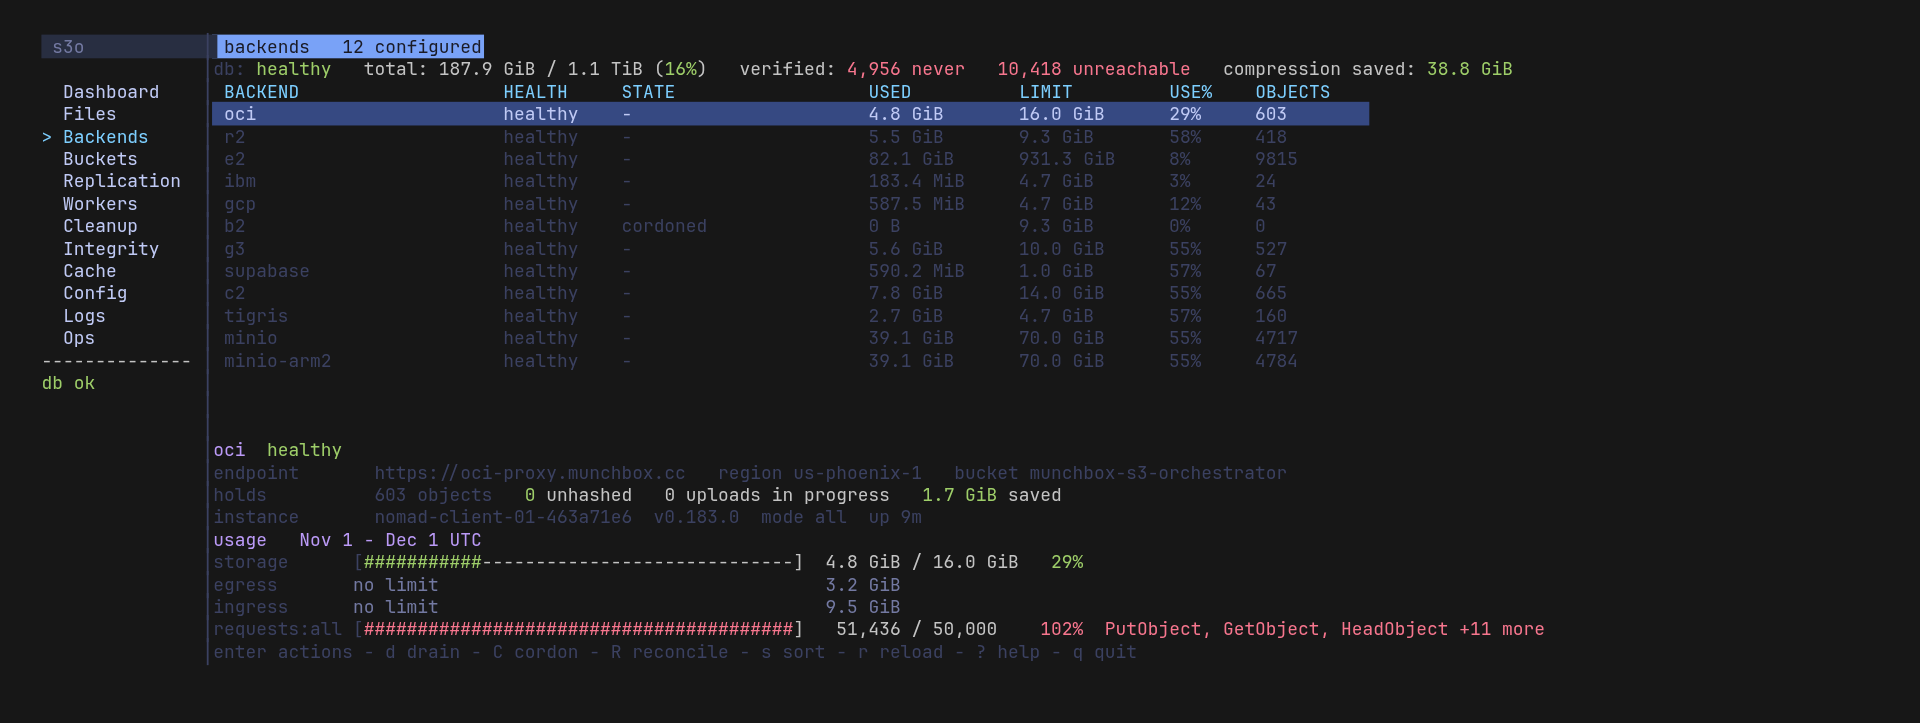
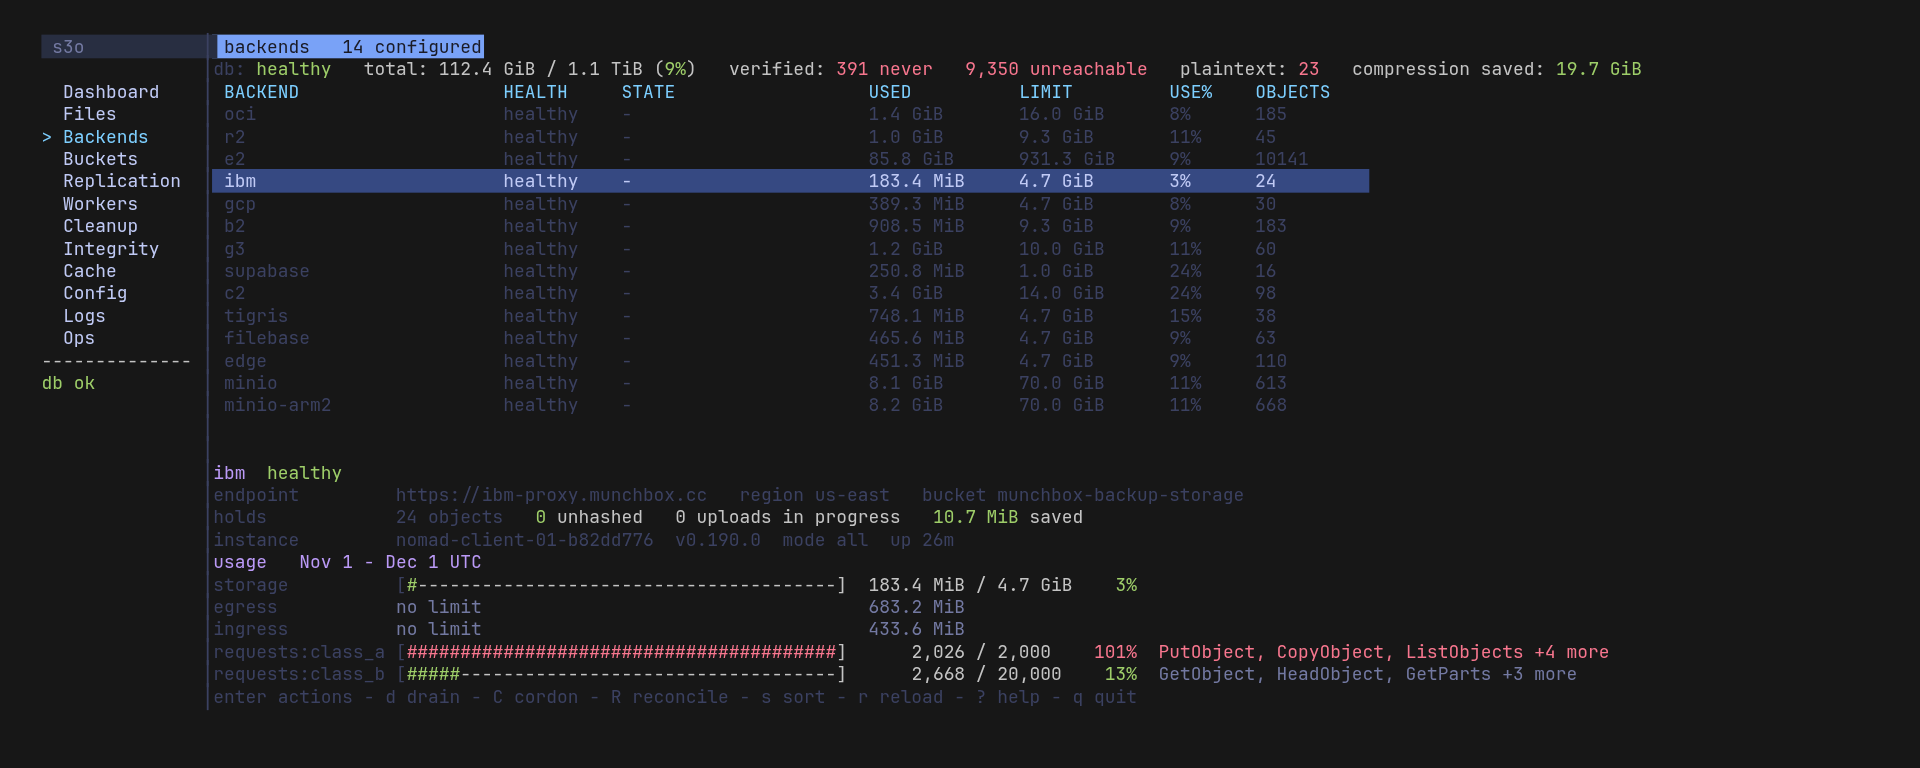
docs: refresh the TUI dashboard and backends screenshots (#1960)
## Problem

The TUI screenshots and the guide still showed the old dashboard, a
storage bar per backend over a separate usage-limits block, and a
Backends detail from before the label column widened.

## Solution

Fresh captures of the Dashboard and Backends panes from v0.190.0, and
the guide, README and CLI page describing what they now show.

## Changes

- `docs/images/tui-dashboard.png`: the pinned fleet summary over the
per-backend blocks.
- `docs/images/tui-backends.png`: fourteen backends, with ibm's detail
showing a request budget past its limit.
- The TUI guide's Dashboard, Buckets and Replication descriptions and
the dashboard alt text, the README alt text, and the `docs/cli.md`
caption.

diff --git a/web/content/guides/tui-object-browser.md b/web/content/guides/tui-object-browser.md
@@ -11,11 +11,11 @@ This guide walks through `s3-orchestrator tui`, the built-in terminal UI. It exp
 
 A persistent left navigation bar switches between sections; the content area to its right renders the active one:
 
-- **Dashboard** - where the TUI opens: a usage bar per backend with its health and state flags, the fleet total, the replication and verification backlogs, how many copies are still plaintext, what compression saves, a bar per usage limit marked with its backend's cycle, request and transfer totals over each backend's current cycle, and the cleanup and dead-letter depths. Every figure on it is fleet-wide, so it reads the same whichever instance answers.
+- **Dashboard** - where the TUI opens. A summary at the top shows the fleet's storage against its limits, the limit nearest full, the replication factor with how many virtual buckets set their own, the replication and verification backlogs, how many copies are still plaintext, what compression saves, request and transfer totals over each backend's current cycle, the cleanup and dead-letter depths, and the session's newest action results. Below it each backend gets a block, opened by a rule naming it with its health, state flags and usage cycle, over a bar for its storage and for each usage limit. The summary stays put while up and down scroll the blocks. Every figure on it is fleet-wide, so it reads the same whichever instance answers.
 - **Files** - a hierarchical listing of the object namespace, one prefix at a time (directories collapse into common prefixes, just like `aws s3 ls`). Large prefixes page in as you scroll. Opening an object swaps the content area for the **Inspector**, which lists every backend copy of that object with its size, age, encryption status, key id, and content-hash prefix - the replica-placement view that makes multi-backend storage legible.
 - **Backends** - one row per configured backend with its circuit-breaker health (healthy, degraded or down), state flags (cordoned, draining), quota usage and object count, and below the table the highlighted backend in full: the calls it is refusing, its endpoint and bucket, and every usage limit against its ceiling for its current usage cycle.
-- **Buckets** - every virtual bucket the deployment declares, whether the config file or the store declares it (config-declared buckets are read-only to the provisioning API), its multipart upload cap, and which identities reach it with what permissions.
-- **Replication** - the configured replication factor and the current under- and over-replicated object counts, refreshing on its own while the section is active.
+- **Buckets** - every virtual bucket the deployment declares, whether the config file or the store declares it (config-declared buckets are read-only to the provisioning API), its multipart upload cap, its stored form and replication factor (the deployment's, marked `(default)`, where the bucket sets none), and which identities reach it with what permissions.
+- **Replication** - the deployment's replication factor, each virtual bucket setting a factor of its own, and the current under- and over-replicated object counts, refreshing on its own while the section is active.
 - **Workers** - each background service's last-tick health: last success, last failure, consecutive failure count, and last error. A service that runs but fails every tick is invisible in `/health`; this is where it shows up.
 - **Cleanup** - the cleanup queue and its dead-letter table, with the depth of each. The one write action here is requeueing a backend's dead-lettered rows.
 - **Integrity** - the copies with no content hash and the copies encrypted with no key, with the total of each. The unhashed listing narrows to the managed copies, which backfill hashes, or to the unmanaged ones it leaves alone.
@@ -30,7 +30,7 @@ Every table fits the terminal's width. In a narrow terminal the less important c
 
 Browsing issues only `GET` requests to the admin API and never changes state. The actions that do change state - upload and delete in Files, the Backends actions, the inspector's scrub, the Cleanup pane's requeue and the Ops menu - each ask before they act.
 
-![The Dashboard: a usage bar per backend with its health, the fleet total, the nearest usage limit, here one backend past its request budget, the fleet-wide backlogs and coverage, and each backend's usage limits](/docs/images/tui-dashboard.png?classes=lightbox)
+![The Dashboard: the fleet summary with its storage bar, the nearest limit, here one backend past its request budget, the replication factor with three virtual buckets at their own, and the fleet-wide backlogs and coverage, above a block per backend with its storage and each usage limit](/docs/images/tui-dashboard.png?classes=lightbox)
 
 ![The Files section listing a prefix of objects and sub-directories, with the navigation sidebar](/docs/images/tui-files.png?classes=lightbox)
 

diff --git a/README.md b/README.md
@@ -18,7 +18,7 @@ Most applications talk to one S3 backend, which ties them to that provider's upt
 Clients see one endpoint and one namespace. The backends never learn the orchestrator exists - they see ordinary S3 calls, so any provider the AWS SDK can talk to works.
 
 <p align="center">
-  <img src="docs/images/tui-backends.png" alt="The terminal browser's Backends view: twelve backends listed with health, state flags, quota used against limit and object count, above the selected backend's endpoint, holdings, answering instance and usage against each limit" width="900">
+  <img src="docs/images/tui-backends.png" alt="The terminal browser's Backends view: fourteen backends listed with health, state flags, quota used against limit and object count, above the selected backend's endpoint, holdings, answering instance and usage against each limit" width="900">
 </p>
 
 <details>

diff --git a/docs/cli.md b/docs/cli.md
@@ -476,7 +476,7 @@ export S3O_SECRET_ACCESS_KEY="$(your-secret-tool get secret-key)"
 s3-orchestrator tui
 ```
 
-![The TUI Dashboard, where it opens: a usage bar per backend and the fleet-wide backlogs](/docs/images/tui-dashboard.png)
+![The TUI Dashboard, where it opens: the fleet summary above a block per backend](/docs/images/tui-dashboard.png)
 
 ![The TUI Files section browsing a prefix](/docs/images/tui-files.png)
 
